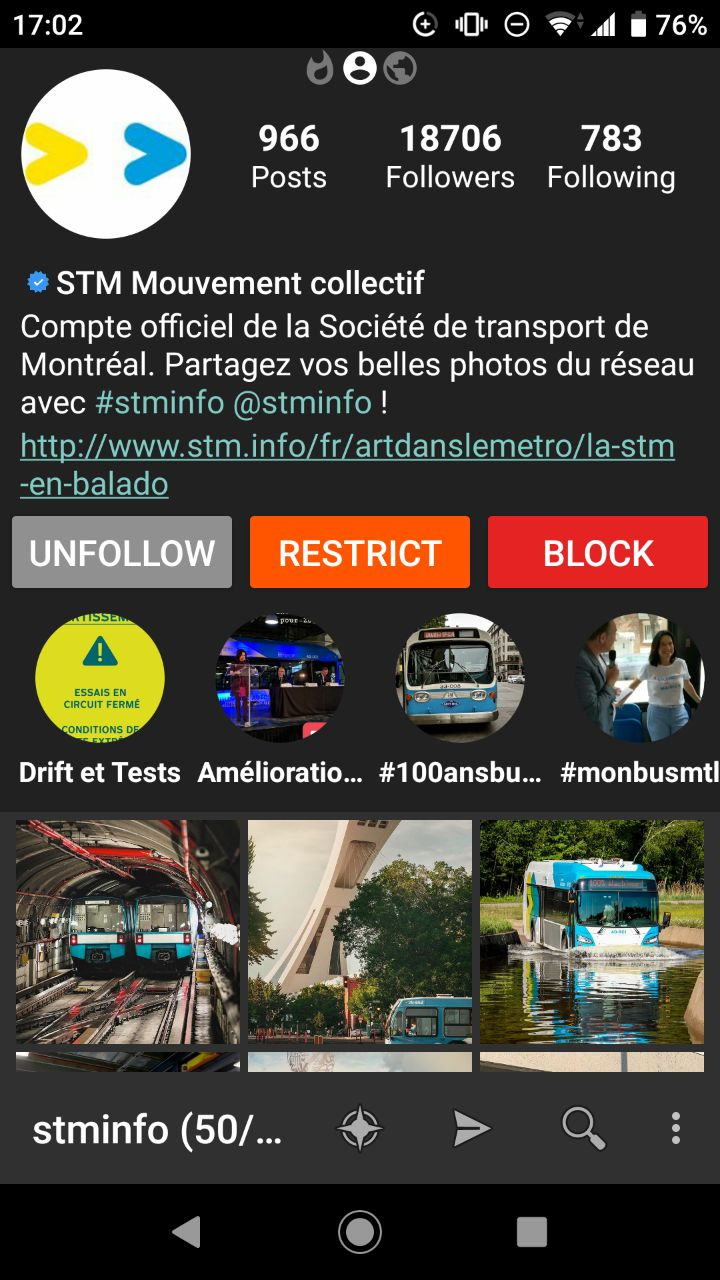
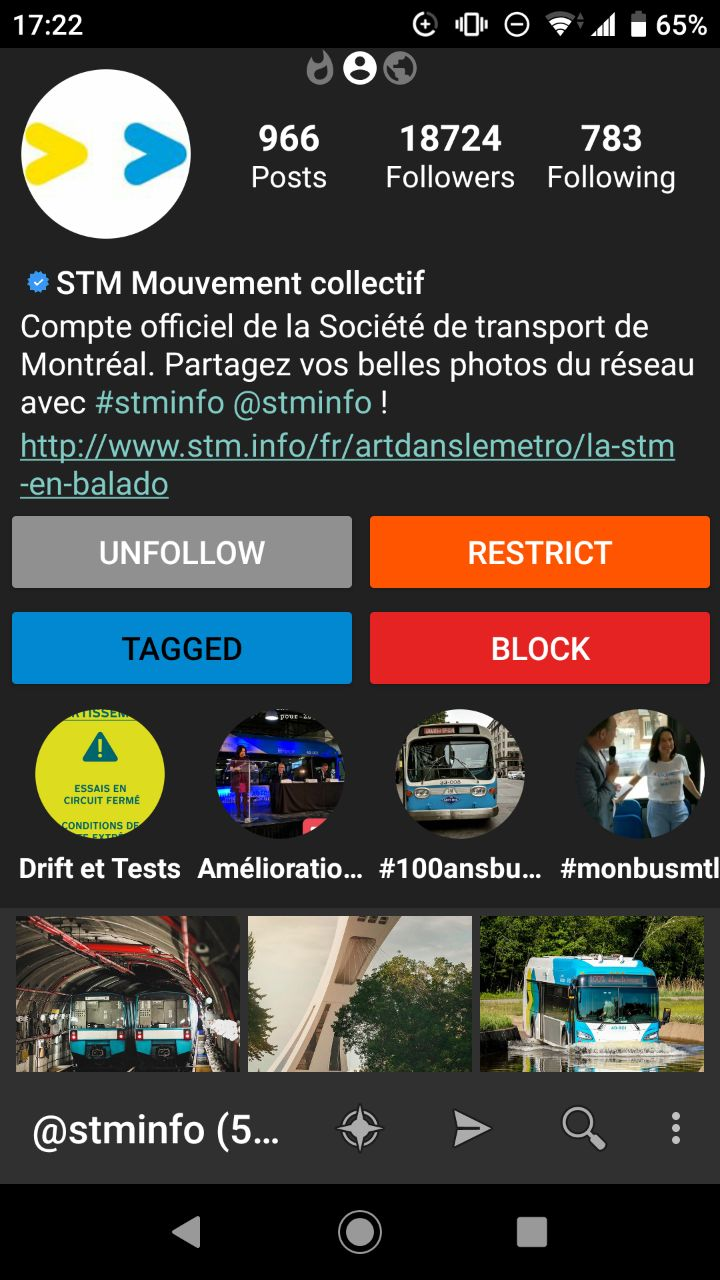
bla

diff --git a/app/src/main/java/awais/instagrabber/MainHelper.java b/app/src/main/java/awais/instagrabber/MainHelper.java
@@ -864,6 +864,10 @@ public final class MainHelper implements SwipeRefreshLayout.OnRefreshListener {
                                 R.color.btn_pink_background, null)));
                     }
                     main.mainBinding.btnFollow.setVisibility(View.VISIBLE);
+                    main.mainBinding.btnRestrict.setVisibility(View.VISIBLE);
+                    main.mainBinding.btnRestrict.setText(R.string.tagged);
+                    main.mainBinding.btnRestrict.setBackgroundTintList(ColorStateList.valueOf(resources.getColor(
+                            R.color.btn_blue_background, null)));
                 }
 
                 main.mainBinding.mainProfileImage.setEnabled(false);
@@ -1205,13 +1209,13 @@ public final class MainHelper implements SwipeRefreshLayout.OnRefreshListener {
                 onRefresh();
             } else if (v == main.mainBinding.btnFollow) {
                 new ProfileAction().execute("follow");
-            } else if (v == main.mainBinding.btnRestrict) {
+            } else if (v == main.mainBinding.btnRestrict && isLoggedIn) {
                 new ProfileAction().execute("restrict");
             } else if (v == main.mainBinding.btnSaved && !iamme) {
                 new ProfileAction().execute("block");
             } else if (v == main.mainBinding.btnFollowTag) {
                 new ProfileAction().execute("followtag");
-            } else if (v == main.mainBinding.btnTagged) {
+            } else if (v == main.mainBinding.btnTagged || (v == main.mainBinding.btnRestrict && !isLoggedIn)) {
                 main.startActivity(new Intent(main, SavedViewer.class)
                         .putExtra(Constants.EXTRAS_INDEX, "%"+main.profileModel.getId())
                         .putExtra(Constants.EXTRAS_USER, "@"+main.profileModel.getUsername())

diff --git a/README.md b/README.md
@@ -16,10 +16,12 @@ InstaGrabber is an app that allows...
 
 It can be used as a drop-in replacement for read functionalities of the official Instagram app, with unnecessary components stripped.
 
-<a href="https://github.com/austinhuang0131/instagrabber/blob/master/fastlane/metadata/android/images/phoneScreenshots/1.jpg"><img src="./fastlane/metadata/android/images/phoneScreenshots/1.jpg" alt="Profile" width="23%"/></a>
-<a href="https://github.com/austinhuang0131/instagrabber/blob/master/fastlane/metadata/android/images/phoneScreenshots/2.jpg"><img src="./fastlane/metadata/android/images/phoneScreenshots/2.jpg" alt="Post" width="23%"/></a>
-<a href="https://github.com/austinhuang0131/instagrabber/blob/master/fastlane/metadata/android/images/phoneScreenshots/3.jpg"><img src="./fastlane/metadata/android/images/phoneScreenshots/3.jpg" alt="Story (Highlight shown)" width="23%"/></a>
-<a href="https://github.com/austinhuang0131/instagrabber/blob/master/fastlane/metadata/android/images/phoneScreenshots/4.jpg"><img src="./fastlane/metadata/android/images/phoneScreenshots/4.jpg" alt="Hashtag" width="23%"/></a>
+<a href="https://github.com/austinhuang0131/instagrabber/blob/master/fastlane/metadata/android/images/phoneScreenshots/1.jpg"><img src="./fastlane/metadata/android/images/phoneScreenshots/1.jpg" alt="Profile" width="15%"/></a>
+<a href="https://github.com/austinhuang0131/instagrabber/blob/master/fastlane/metadata/android/images/phoneScreenshots/2.jpg"><img src="./fastlane/metadata/android/images/phoneScreenshots/2.jpg" alt="Post" width="15%"/></a>
+<a href="https://github.com/austinhuang0131/instagrabber/blob/master/fastlane/metadata/android/images/phoneScreenshots/3.jpg"><img src="./fastlane/metadata/android/images/phoneScreenshots/3.jpg" alt="Comments" width="15%"/></a>
+<a href="https://github.com/austinhuang0131/instagrabber/blob/master/fastlane/metadata/android/images/phoneScreenshots/4.jpg"><img src="./fastlane/metadata/android/images/phoneScreenshots/4.jpg" alt="Story (Highlight shown)" width="15%"/></a>
+<a href="https://github.com/austinhuang0131/instagrabber/blob/master/fastlane/metadata/android/images/phoneScreenshots/5.jpg"><img src="./fastlane/metadata/android/images/phoneScreenshots/5.jpg" alt="Hashtag" width="15%"/></a>
+<a href="https://github.com/austinhuang0131/instagrabber/blob/master/fastlane/metadata/android/images/phoneScreenshots/6.jpg"><img src="./fastlane/metadata/android/images/phoneScreenshots/6.jpg" alt="Location" width="15%"/></a>
 
 This app is originally made by [@AwaisKing](https://github.com/AwaisKing) who posted on [GitLab](https://gitlab.com/AwaisKing/instagrabber) but subsequently abandoned it. I decided to continue the app cuz why not, ~~even though it might not be that *cash money*.~~ (Also I need to learn Java.)
 
